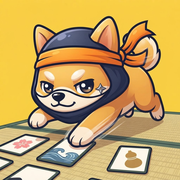
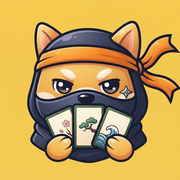
アイコンを基準の型（胸から上・かるた札3枚）に作り直し

diff --git a/index.html b/index.html
@@ -25,9 +25,9 @@
 <meta property="og:title" content="かるた読み上げ｜インストール不要で読み手いらず">
 <meta property="og:description" content="インストール不要。手持ちのかるたの読み札を登録すると、ランダムに読み上げます。全員が取り手に回れます。">
 <meta property="og:url" content="https://karuta.kkpwebninja.com/">
-<link rel="icon" type="image/png" sizes="32x32" href="/favicon.png">
-<link rel="icon" type="image/png" sizes="192x192" href="/favicon-192.png">
-<link rel="apple-touch-icon" sizes="180x180" href="/apple-touch-icon.png">
+<link rel="icon" type="image/png" sizes="32x32" href="/favicon.png?v=2">
+<link rel="icon" type="image/png" sizes="192x192" href="/favicon-192.png?v=2">
+<link rel="apple-touch-icon" sizes="180x180" href="/apple-touch-icon.png?v=2">
 <meta property="og:site_name" content="かるた読み上げ">
 <meta property="og:image" content="https://karuta.kkpwebninja.com/ogp.jpg?d=20261023b">
 <meta name="twitter:card" content="summary_large_image">
